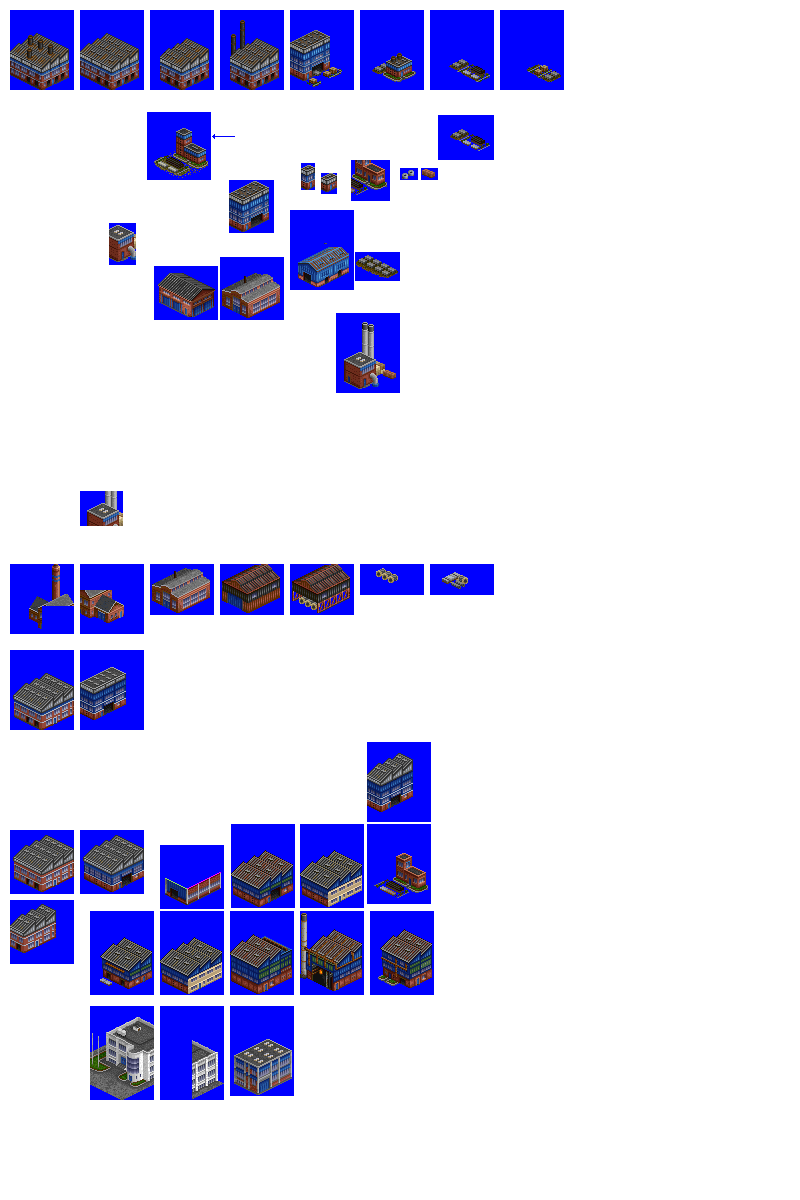
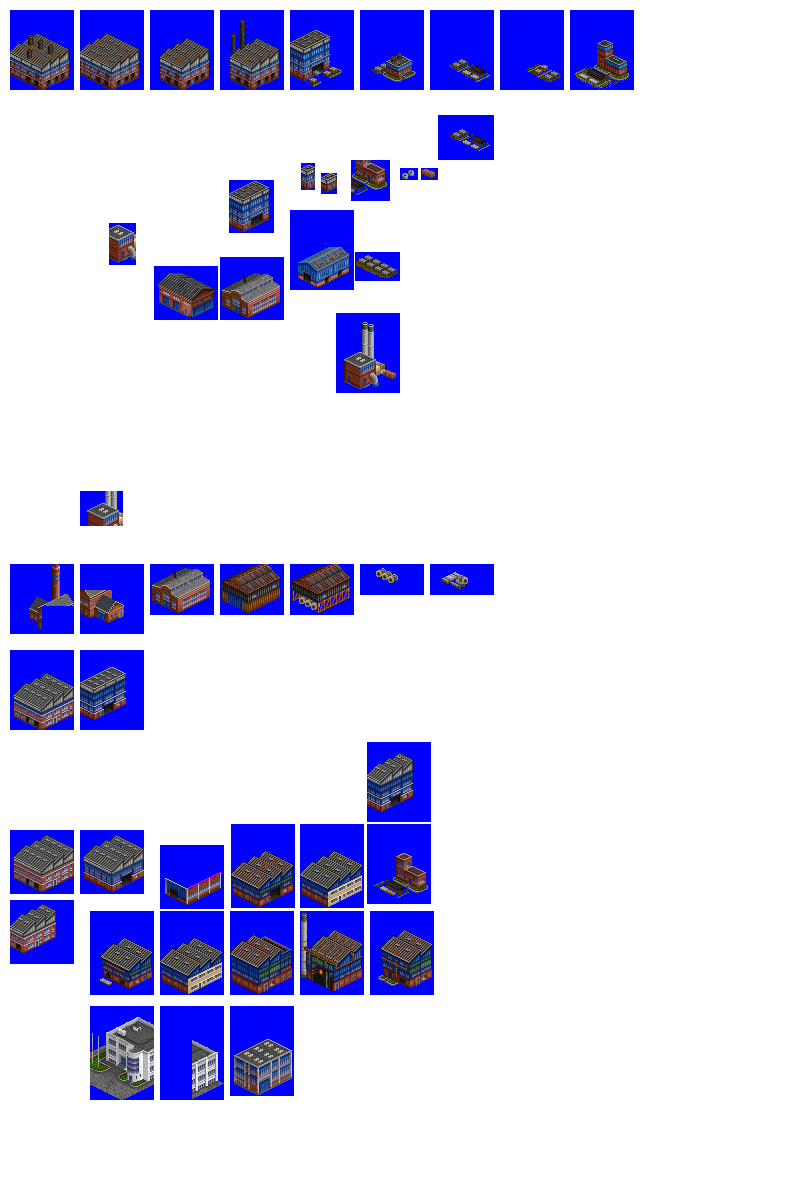
Change: additional object for Metal Works

Changed region(s): [[0.6875, 0.0, 0.8125, 0.0925], [0.1562, 0.0925, 0.2812, 0.1542]]

diff --git a/src/industries/metal_works.py b/src/industries/metal_works.py
@@ -71,7 +71,7 @@ spriteset_shed_4_half_with_chimneys = industry.add_spriteset(
 spriteset_shed_tall = industry.add_spriteset(
     sprites=[(290, 10, 64, 80, -31, -50)],
 )
-spriteset_small_building = industry.add_spriteset(
+spriteset_small_building_1 = industry.add_spriteset(
     sprites=[(360, 10, 64, 80, -31, -50)],
 )
 spriteset_greeble_1 = industry.add_spriteset(
@@ -79,6 +79,9 @@ spriteset_greeble_1 = industry.add_spriteset(
 )
 spriteset_greeble_2 = industry.add_spriteset(
     sprites=[(500, 10, 64, 80, -31, -50)],
+)
+spriteset_small_building_2 = industry.add_spriteset(
+    sprites=[(570, 10, 64, 80, -31, -50)],
 )
 
 industry.add_spritelayout(
@@ -127,11 +130,11 @@ industry.add_spritelayout(
     add_to_object_num=5,
 )
 industry.add_spritelayout(
-    id="metal_works_spritelayout_small_building",
+    id="metal_works_spritelayout_small_building_1",
     tile="metal_works_tile_1",
     ground_sprite=spriteset_ground,
     ground_overlay=spriteset_ground_overlay,
-    building_sprites=[spriteset_small_building],
+    building_sprites=[spriteset_small_building_1],
     fences=["nw", "ne", "sw"],
     add_to_object_num=6,
 )
@@ -153,6 +156,15 @@ industry.add_spritelayout(
     fences=["nw", "ne"],
     add_to_object_num=8,
 )
+industry.add_spritelayout(
+    id="metal_works_spritelayout_small_building_2",
+    tile="metal_works_tile_1",
+    ground_sprite=spriteset_ground,
+    ground_overlay=spriteset_ground_overlay,
+    building_sprites=[spriteset_small_building_2],
+    fences=["nw", "ne"],
+    add_to_object_num=9,
+)
 
 # this industry needs outpost layout as there are lots of cargos
 industry.add_industry_outpost_layout(
@@ -161,7 +173,7 @@ industry.add_industry_outpost_layout(
         # test outpost layout
         (0, 0, "metal_works_spritelayout_shed_4_half_with_chimneys"),
         (0, 1, "metal_works_spritelayout_shed_1_with_chimneys"),
-        (0, 2, "metal_works_spritelayout_small_building"),
+        (0, 2, "metal_works_spritelayout_small_building_1"),
         (1, 0, "metal_works_spritelayout_shed_3_half"),
         (1, 1, "metal_works_spritelayout_shed_tall"),
         (1, 2, "metal_works_spritelayout_greeble_1"),
@@ -176,7 +188,7 @@ industry.add_industry_outpost_layout(
         (1, 0, "metal_works_spritelayout_shed_3_half"),
         (1, 1, "metal_works_spritelayout_shed_tall"),
         (2, 0, "metal_works_spritelayout_greeble_1"),
-        (2, 1, "metal_works_spritelayout_small_building"),
+        (2, 1, "metal_works_spritelayout_small_building_1"),
     ],
 )
 
@@ -200,7 +212,7 @@ industry.add_industry_layout(
         (2, 2, "metal_works_spritelayout_shed_tall"),
         (2, 3, "metal_works_spritelayout_greeble_2"),
         (2, 4, "metal_works_spritelayout_greeble_1"),
-        (2, 5, "metal_works_spritelayout_small_building"),
+        (2, 5, "metal_works_spritelayout_small_building_1"),
     ],
 )
 industry.add_industry_layout(
@@ -214,7 +226,7 @@ industry.add_industry_layout(
         (1, 2, "metal_works_spritelayout_shed_tall"),
         (2, 0, "metal_works_spritelayout_greeble_2"),
         (2, 1, "metal_works_spritelayout_greeble_1"),
-        (2, 2, "metal_works_spritelayout_small_building"),
+        (2, 2, "metal_works_spritelayout_small_building_1"),
         (3, 0, "metal_works_spritelayout_shed_4_half_with_chimneys"),
         (3, 1, "metal_works_spritelayout_shed_1_with_chimneys"),
         (3, 2, "metal_works_spritelayout_greeble_1"),
